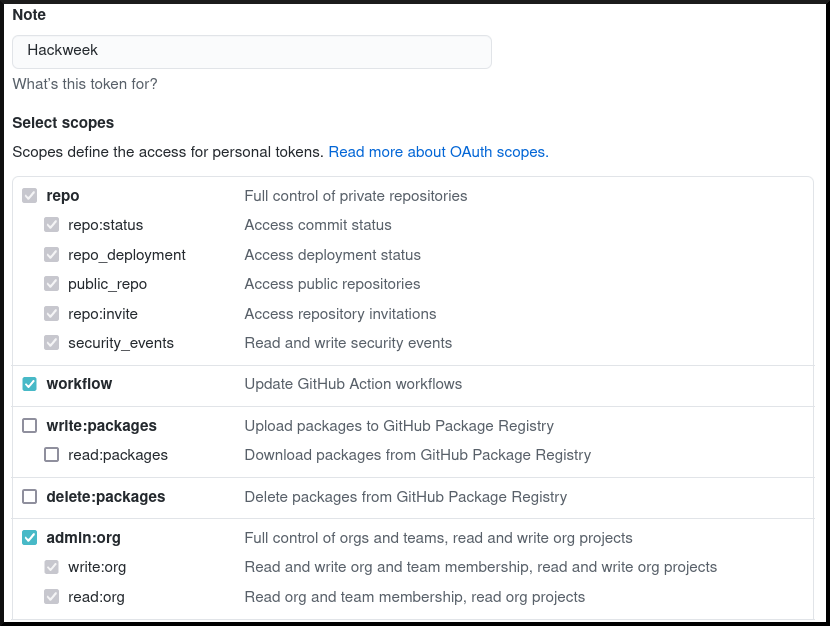
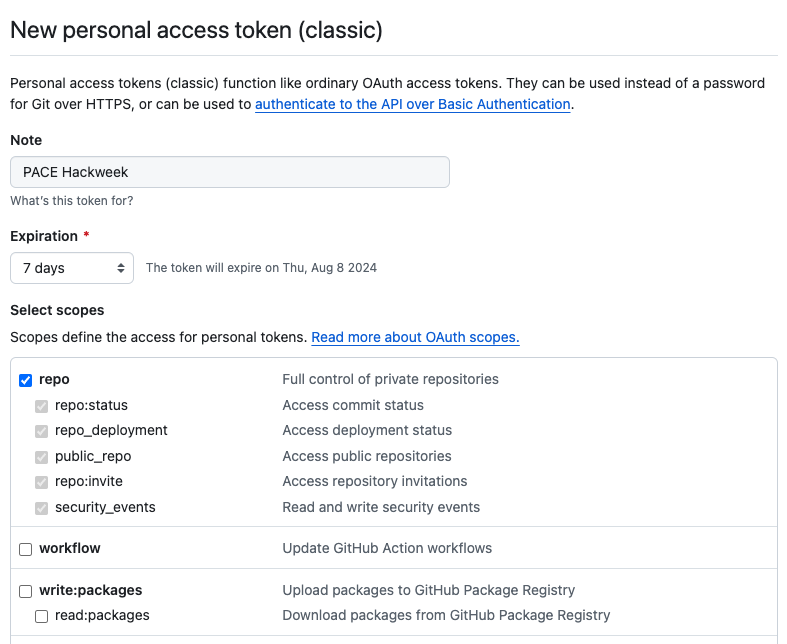
editing

Changed region(s): [[0.0, 0.0, 1.0, 1.0], [0.2745, 0.3035, 0.5794, 0.3642]]

diff --git a/book/preliminary/git.md b/book/preliminary/git.md
@@ -2,81 +2,78 @@
 
 ## What is Git?
 
-[Git](https://git-scm.com/) is a version control system used by many scientists
-to maintain and collaborate on scientific code.
+[Git](https://git-scm.com/) is a version control system that many scientists use
+to collaborate on code.
 
 ```{note}
 You are not required to know Git in advance of this event, but this is a great opportunity to learn all about it!
-[Here a quick introduction video from the official website](https://git-scm.com/video/what-is-git)
+[Here's a quick introduction video from the official website](https://git-scm.com/video/what-is-git)
 ```
-(setting-up-git)=
+
 ## Setting up on JupyterHub
 
-Below are instructions to get you setup with `git` on the {{hackweek}} hackweek
+Below are instructions to get you setup with `git` on the {{hackweek}}
 JupyterHub. These are only basic instructions to get started. See the
 [Software Carpentry Git](https://swcarpentry.github.io/git-novice/index.html)
-instructions for a more thorough explanation and background information.
+instructions for a thorough explanation and background information.
 
 ### 1. Login to JupyterHub
+
 Go to {{ jupyterhub_url }}. See also our JupyterHub documentation: {ref}`accessing-jupyterhub`
 
 ### 2. Open a Terminal
-Choose the 'Terminal' from the 'Other' options in the 'Launcher' tab.
+
+Choose the "Terminal" app from the "Other" options in the Launcher.
 
 ![jupyterlab](../img/jupyter-terminal.png)
 
-### 3. Configure basic `git` information
+### 3. Configure Basic `git` Information
+
 Set your name and email address. The `user.name` is your full name, not your "username"
 on GitHub or anywhere else. The email address should be one registered on your GitHub account.
 
 ```{attention}
-Use your personal name instead of the placeholder `Attendee Name`
+Use your own name instead of the placeholder `Attendee Name`
 in the below commands. For the email, it should be the address you used to create
 your GitHub account instead of `attendee@hackweek.com`. Both values need to be
 surrounded by quotes `"`.
 ```
 
 ```shell
-git config --global user.name "Attendee Name"
-git config --global user.email "attendee@hackweek.com"
-git config --global pull.rebase false
+$ git config --global user.name "Attendee Name"
+$ git config --global user.email "attendee@hackweek.com"
+$ git config --global pull.rebase false
 ```
 
-The third line is a configuration option that needs to be done with a first time
-setup. It specifies the strategy on how git will apply changes you pull from
-a remote git repository.
+The third line is a configuration you must set before pulling with git. It specifies
+the strategy on how git will apply changes you pull from a remote git repository.
 More on strategies is [described here.](http://git-scm.com/book/en/v2/Git-Branching-Rebasing)
 
-To verify that you successfully executed the above commands, use the
+To verify that you successfully executed the above commands, use the `git config --list` command
+in the Terminal. The output should look similar to this:
 ```shell
-git config --list
-```
-command.
-
-The output should look similar to this:
-```shell
-jovyan@jupyter:~$ git config -l
+$ git config --list
 user.name=Attendee Name
 user.email=attendee@hackweek.com
 pull.rebase=false
 ```
 
 ### 4. Authenticating with GitHub
+
 In order to interact with GitHub via the `git` command inside the JupyterHub environment,
-you need to set up an authentication method. The two methods below both rely on secure
+you need to set up authentication. The two methods below both rely on secure
 Personal Access Tokens, which you can learn more about on [GitHub docs][gh-docs].
 
 [gh-docs]:https://docs.github.com/en/authentication/keeping-your-account-and-data-secure/managing-your-personal-access-tokens
 
 #### 4.1 CryoCloud GitHub Access
 
-We recommend this option if you have permission to configure a GitHub App on the user or organization where you
-need to authenticate. For instance, if you want to push to "https://github.com/example/repo.git", then you need to have
-permission to configure the settings for "example".
+We recommend this method if you have permission to configure a GitHub App on the user or organization where you
+need to authenticate. For instance, if you want to push to `https://github.com/example/repo.git`, then you need to have
+permission to configure the settings for `example` (a user or organization).
 
-To set up your Personal Access Token on JupyterHub, start from a 'Terminal' (choose the 'Terminal' from the 'Other' options in the 'Launcher' tab).
-
-Follow the instructions returned by the `gh-scoped-creds` command:
+Start from a Terminal (choose the "Terminal" app from the "Other" options in the Launcher). Follow
+the instructions returned by the `gh-scoped-creds` command:
 
 ```shell
 $ gh-scoped-creds 
@@ -95,33 +92,33 @@ Tip: Use https:// URLs to clone and push to repos, not ssh URLs!
 
 To set up the user or oranization to allow access by the Personal Access Token just created, follow the link provided.
 
-Here is a GIF walking through the workflow. It shows the notebook way before showing the Terminal way.
+Here is a GIF walking through the workflow. Note that it shows a way to do the same setup in a notebook before
+showing the Terminal way just described.
 
 ![gh-scoped-creds](https://miro.medium.com/v2/resize:fit:720/format:webp/1*B3qjACXLBG9pBOlzY8WNxA.gif)
 
 #### 4.1 Manual Configuration
 
-Take a moment to work through the instructions on the
+Work through the instructions on the
 [GitHub personal access tokens](https://docs.github.com/en/authentication/keeping-your-account-and-data-secure/managing-your-personal-access-tokens#creating-a-personal-access-token-classic)
-page. The minimal permission you need to push to a repository is the **repo** scope.
+page. The minimal permission you likely need is the **repo** scope, so match this image when you get to
+the page with lots of check-boxes.
 
-Screenshot from github.com setting up the token:
 ![github-token](../img/github-token.png)
 
-Once you have created your token, be sure to save it or use it before navigating away.
+Once you have created your token, be sure to save it or use it before navigating away. It won't be
+visible again. To have it saved on CryoCloud the first time you use it, configure the `git` credential helper.
 
-To use it, you need to use `git` to do something that requires authentication, such as
+```shell
+git config --global credential.helper store
+```
+
+To use the Personal Access Token, you need to use `git` to do something that requires authentication, such as
 pushing to a repository or cloning a private repository. These actions will prompt
-for input of your credentials.
+for input of your credentials. When prompted for a password, user your created token.
 
 ```{attention}
-Use your personal GitHub username instead of the placeholder `<GitHub Username>`
-in the below sample output. For the password, paste your created token.
-
 The prompt for the `Password:` will not show any characters that are entered
 and stay blank. Make sure to only copy and paste your token once and then
 hit the enter key.
 ```
-
-Now that you have entered your credentials once, you should no longer be prompted
-for your username and token again.
